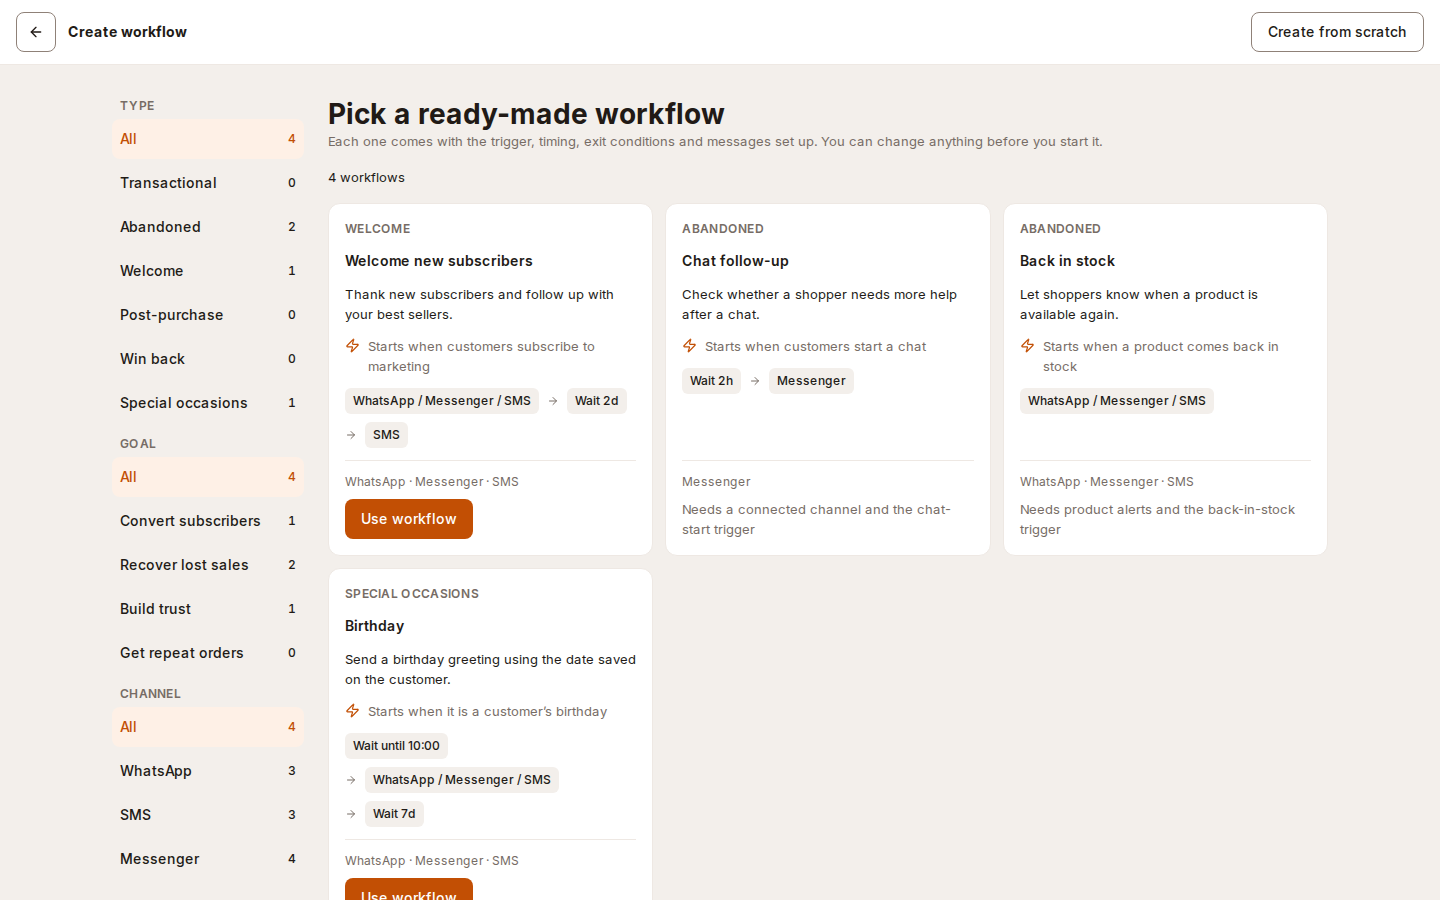
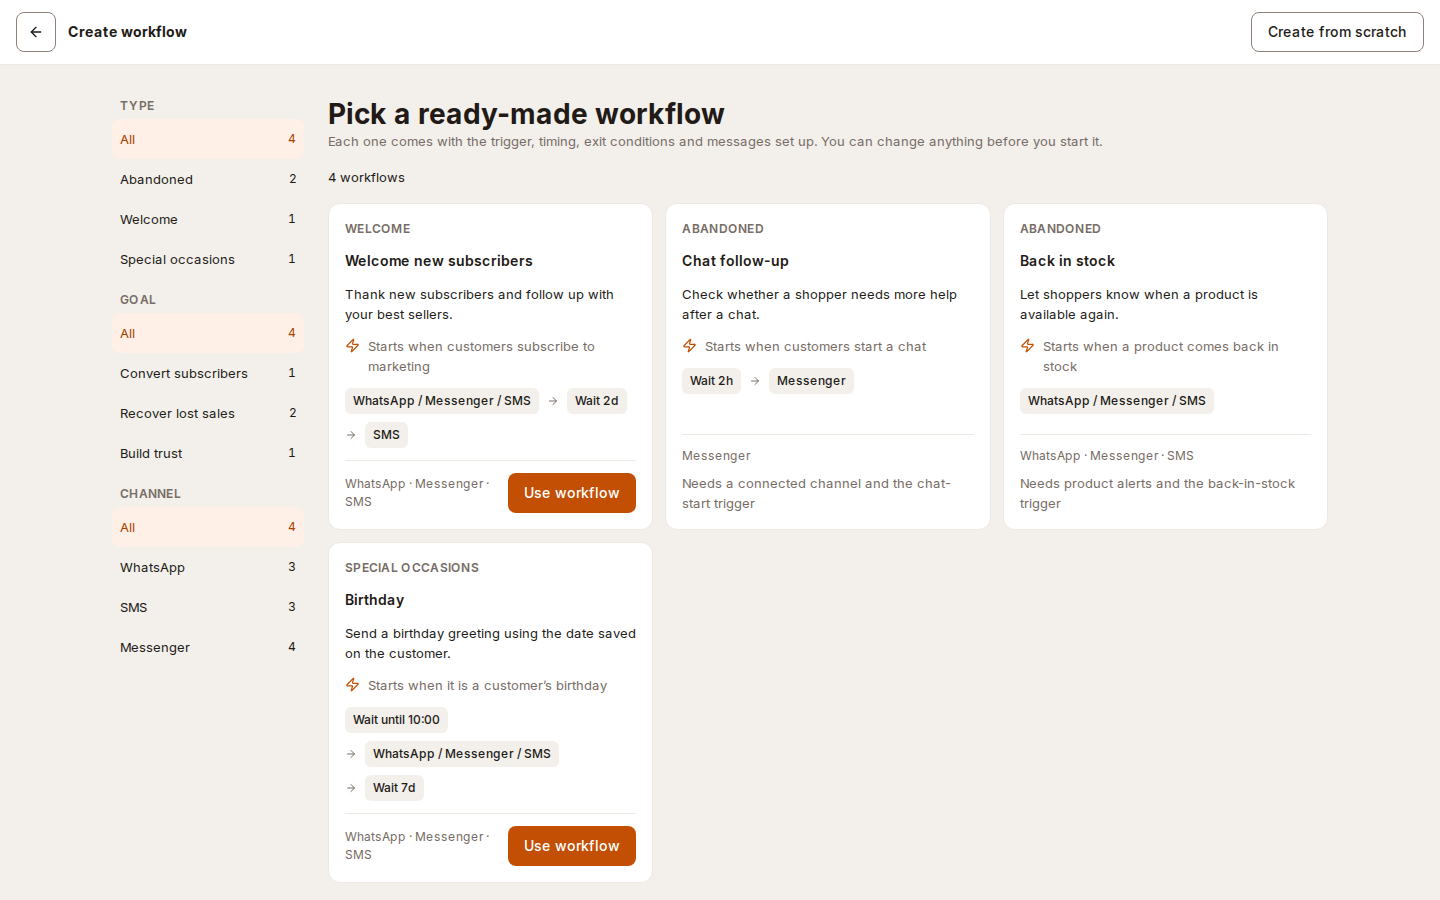
fix(camp-12): match template creation and library details

diff --git a/apps/web/src/features/automations/components/workflow-library.tsx b/apps/web/src/features/automations/components/workflow-library.tsx
@@ -26,17 +26,23 @@ const groups = [
   {
     key: 'type',
     name: 'Type',
-    options: templateCategories.map((value) => ({ value, label: templateTypeLabels[value] })),
+    options: templateCategories
+      .filter((value) => workflowTemplates.some((template) => template.category === value))
+      .map((value) => ({ value, label: templateTypeLabels[value] })),
   },
   {
     key: 'goal',
     name: 'Goal',
-    options: templateGoals.map((value) => ({ value, label: templateGoalLabels[value] })),
+    options: templateGoals
+      .filter((value) => workflowTemplates.some((template) => template.libraryGoal === value))
+      .map((value) => ({ value, label: templateGoalLabels[value] })),
   },
   {
     key: 'channel',
     name: 'Channel',
-    options: campaignChannels.map((value) => ({ value, label: channelLabels[value] })),
+    options: campaignChannels
+      .filter((value) => workflowTemplates.some((template) => template.channels.includes(value)))
+      .map((value) => ({ value, label: channelLabels[value] })),
   },
 ] as const;
 
@@ -132,7 +138,7 @@ function LibraryFilters({
             <h2 className="px-2 text-xs font-semibold tracking-wide text-text-muted uppercase">
               {name}
             </h2>
-            <div className="flex gap-1 overflow-x-auto md:grid">
+            <div className="flex gap-1 overflow-x-auto md:grid md:gap-0">
               {[{ value: 'all', label: 'All' }, ...options].map(({ value, label }) => {
                 const count = candidates.filter((item) => matches(item, key, value)).length;
                 const pressed = selected(key) === value;
@@ -143,8 +149,8 @@ function LibraryFilters({
                     aria-pressed={pressed}
                     aria-label={`${label} ${count}`}
                     className={cn(
-                      'shrink-0 justify-between border-0 px-2 md:w-full',
-                      pressed ? 'bg-primary-soft text-action' : 'bg-transparent',
+                      'shrink-0 justify-between border-0 px-2 py-1 text-sm font-normal md:w-full',
+                      pressed ? 'bg-primary-soft text-action-hover' : 'bg-transparent',
                     )}
                     onClick={() => choose(key, value)}
                   >
@@ -201,9 +207,7 @@ function LibraryResults({
             template={template}
             inUse={activeTemplates.has(template.key)}
             pending={pending}
-            onUse={() =>
-              create({ name: template.name, graph: template.graph, templateKey: template.key })
-            }
+            onUse={() => create({ name: template.name, templateKey: template.key })}
           />
         ))}
       </div>

diff --git a/apps/web/e2e/automation-library.spec.ts b/apps/web/e2e/automation-library.spec.ts
@@ -27,6 +27,7 @@ test('filters the template library and copies a ready workflow into a draft', as
     await page.goto('/automations');
     await page.getByRole('link', { name: 'Create workflow' }).click();
     await expect(page.getByRole('heading', { name: 'Pick a ready-made workflow' })).toBeVisible();
+    await expect(page.getByRole('button', { name: /Transactional/ })).toHaveCount(0);
     const followUp = page.getByRole('article').filter({ hasText: 'Chat follow-up' });
     await expect(followUp.getByText(/Needs a connected channel/)).toBeVisible();
     await expect(followUp.getByRole('button', { name: /Use workflow/ })).toHaveCount(0);
@@ -48,6 +49,11 @@ test('filters the template library and copies a ready workflow into a draft', as
       .getByRole('button', { name: 'Welcome 1' })
       .click();
     await expect(page).toHaveURL(/type=welcome/);
+    await expect(
+      page
+        .getByRole('region', { name: 'Goal' })
+        .getByRole('button', { name: 'Recover lost sales 0' }),
+    ).toBeVisible();
     await page
       .getByRole('region', { name: 'Goal' })
       .getByRole('button', { name: 'Convert subscribers 1' })

diff --git a/apps/web/src/features/automations/components/workflow-template-card.tsx b/apps/web/src/features/automations/components/workflow-template-card.tsx
@@ -2,6 +2,7 @@ import { ArrowRight, Zap } from 'lucide-react';
 
 import { Badge } from '@dakly/ui/badge';
 import { Button } from '@dakly/ui/button';
+import { cn } from '@dakly/ui/cn';
 
 import { channelLabels, triggerLabels } from '../automation-labels';
 import {
@@ -46,12 +47,17 @@ export function TemplateCard({
             </li>
           ))}
       </ol>
-      <div className="mt-auto flex flex-wrap items-center justify-between gap-2 border-t border-border pt-3">
-        <p className="text-xs text-text-muted">
+      <div
+        className={cn(
+          'mt-auto border-t border-border pt-3',
+          template.available ? 'flex items-center justify-between gap-2' : 'space-y-2',
+        )}
+      >
+        <p className="min-w-0 text-xs text-text-muted">
           {template.channels.map((key) => channelLabels[key]).join(' · ')}
         </p>
         {template.available ? (
-          <Button disabled={pending} onClick={onUse}>
+          <Button className="shrink-0" disabled={pending} onClick={onUse}>
             Use workflow<span className="sr-only"> {template.name}</span>
           </Button>
         ) : (

diff --git a/apps/web/src/features/automations/components/automations-screen.tsx b/apps/web/src/features/automations/components/automations-screen.tsx
@@ -4,7 +4,7 @@ import { Plus } from 'lucide-react';
 import Link from 'next/link';
 import { usePathname, useRouter, useSearchParams } from 'next/navigation';
 
-import { Button } from '@dakly/ui/button';
+import { Button, buttonVariants } from '@dakly/ui/button';
 import { Skeleton } from '@dakly/ui/skeleton';
 import { Tabs, TabsContent, TabsList, TabsTrigger } from '@dakly/ui/tabs';
 
@@ -85,10 +85,7 @@ function WorkflowHeader({ canEdit }: { canEdit: boolean }) {
         </p>
       </div>
       {canEdit && (
-        <Link
-          href="/automations/new"
-          className="inline-flex min-h-10 items-center gap-2 rounded-md bg-action px-4 py-2 font-medium text-on-primary hover:bg-action-hover focus-visible:outline-2 focus-visible:outline-offset-2 focus-visible:outline-focus"
-        >
+        <Link href="/automations/new" className={buttonVariants()}>
           <Plus size={16} aria-hidden="true" /> Create workflow
         </Link>
       )}

diff --git a/packages/contracts/src/automations.ts b/packages/contracts/src/automations.ts
@@ -34,14 +34,18 @@ export const AUTOMATION_NAME_MAX = 80;
 
 const automationNameSchema = z.string().trim().min(1).max(AUTOMATION_NAME_MAX);
 
-const automationFieldsSchema = z.strictObject({
+const automationDraftSchema = z.strictObject({
   name: automationNameSchema,
   graph: automationGraphSchema,
 });
-export const createAutomationSchema = automationFieldsSchema.extend({
-  templateKey: z.enum(Object.keys(automationTemplates) as TemplateKey[]).optional(),
-});
-export const changeAutomationSchema = automationFieldsSchema
+export const createAutomationSchema = z.union([
+  automationDraftSchema,
+  z.strictObject({
+    name: automationNameSchema,
+    templateKey: z.enum(Object.keys(automationTemplates) as TemplateKey[]),
+  }),
+]);
+export const changeAutomationSchema = automationDraftSchema
   .partial()
   .refine((input) => input.name !== undefined || input.graph !== undefined, 'Nothing to change');
 export type AutomationTriggerPreview = {

diff --git a/packages/core/src/automations/automations.service.ts b/packages/core/src/automations/automations.service.ts
@@ -105,12 +105,14 @@ export class AutomationsService {
         MAX_AUTOMATIONS_PER_STORE
       )
         throw automationError('AUTOMATION_LIMIT_REACHED');
-      const graph = input.templateKey ? automationTemplates[input.templateKey].graph : input.graph;
+      const draft =
+        'templateKey' in input
+          ? { ...input, graph: automationTemplates[input.templateKey].graph }
+          : input;
       // The live trigger starts as the first draft's; only Publish changes it after that.
       const automation = await this.repository.insert(storeId, {
-        ...input,
-        graph,
-        triggerType: graph.trigger.key,
+        ...draft,
+        triggerType: draft.graph.trigger.key,
         createdByUserId: actor.kind === 'user' ? actor.userId : null,
       });
       return toAutomationResponse(automation);

diff --git a/packages/contracts/src/automations.spec.ts b/packages/contracts/src/automations.spec.ts
@@ -16,6 +16,16 @@ describe('createAutomationSchema', () => {
     expect(createAutomationSchema.safeParse({ name: 'স্বাগতম', graph }).success).toBe(false);
   });
 
+  it('requires either a graph or a template key', () => {
+    const name = 'Welcome';
+    const templateKey = 'welcome_new_subscriber';
+    expect(createAutomationSchema.safeParse({ name, templateKey }).success).toBe(true);
+    expect(createAutomationSchema.safeParse({ name, templateKey, graph: welcome }).success).toBe(
+      false,
+    );
+    expect(createAutomationSchema.safeParse({ name }).success).toBe(false);
+  });
+
   it('accepts a template graph', () => {
     expect(createAutomationSchema.safeParse({ name: 'স্বাগতম', graph: welcome }).success).toBe(true);
   });

diff --git a/packages/ui/src/button.tsx b/packages/ui/src/button.tsx
@@ -3,7 +3,7 @@ import type { ComponentProps } from 'react';
 
 import { cn } from './cn';
 
-const buttonVariants = cva(
+export const buttonVariants = cva(
   'inline-flex min-h-10 min-w-10 items-center justify-center gap-2 rounded-md px-4 py-2 text-base font-medium focus-visible:outline-2 focus-visible:outline-offset-2 focus-visible:outline-focus disabled:cursor-not-allowed disabled:opacity-50',
   {
     variants: {

diff --git a/apps/api/test/cross-store.int.spec.ts b/apps/api/test/cross-store.int.spec.ts
@@ -1142,7 +1142,6 @@ fixture('POST /automations', async () => {
   const response = await success(b, 'POST', '/automations', 201, {
     name: 'Birthday template',
     templateKey: 'birthday',
-    graph: welcome,
   });
   expect(response.json()).toMatchObject({
     templateKey: 'birthday',

diff --git a/docs/features/09-campaigns-and-automations.md b/docs/features/09-campaigns-and-automations.md
@@ -420,7 +420,7 @@ Build in two stages so templates can ship if the canvas slips: (1) engine, versi
 
 Template library: complete graphs shipped in code, copied into the store as a draft on Use template. The templates are in [Workflow catalogue](#workflow-catalogue). Templates whose prerequisites the store lacks show what they need instead of Use.
 
-The template library filters by type, goal and channel in the URL. Use workflow copies the template into a draft and saves which template it came from. The library marks templates that have an active workflow in the shop.
+The template library filters by type, goal and channel in the URL. Use workflow creates a draft from a template key. A draft created from scratch supplies a graph instead. The shop saves which template it came from. The library marks templates that have an active workflow in the shop.
 
 Limits: 50 steps a workflow, 90 days of waiting on any path, 5 exit conditions, 10 condition paths plus Else, 4 random paths, 100 workflows a store; warn when more than 10 active workflows share a trigger.
 
